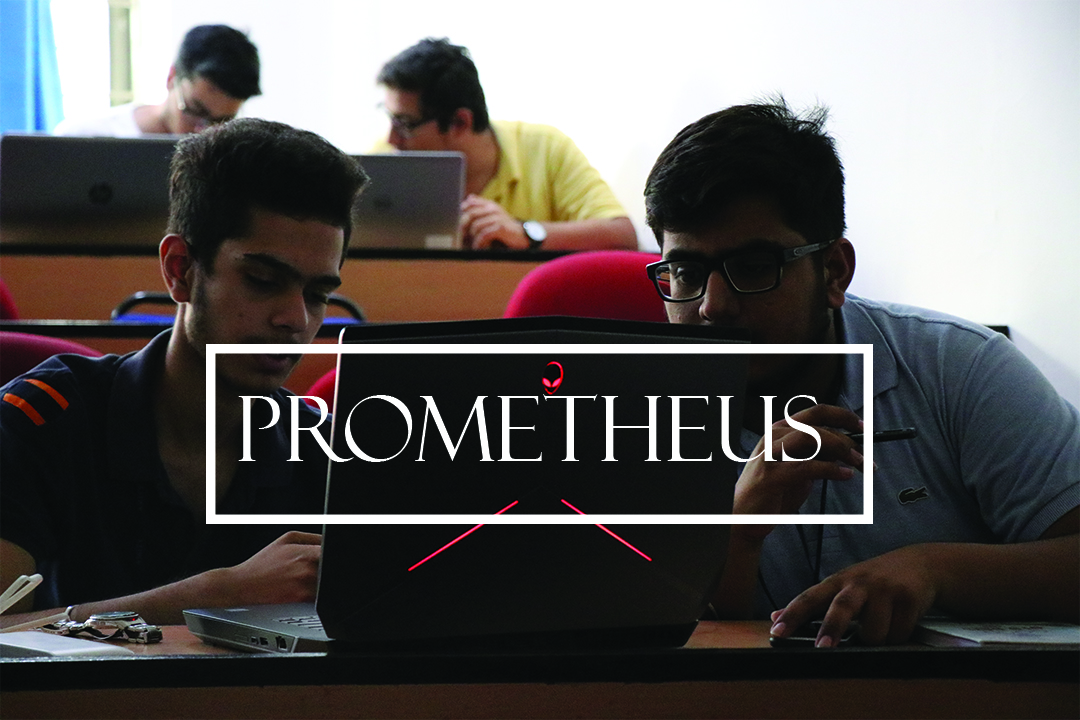
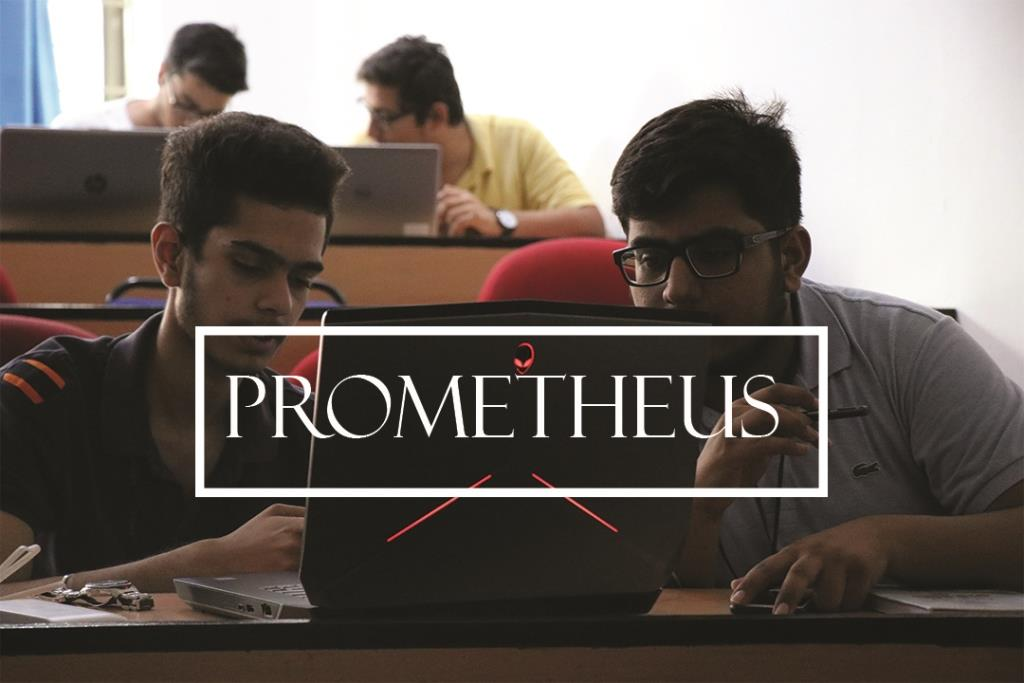
compresses images

diff --git a/index.html b/index.html
@@ -360,7 +360,7 @@
                         </div>
                         <!-- SINGLE SLIDE IN THE SLIDER -->
                         <div class="single_iteam">
-                          <a > <img src="img/gallery/008.png" alt="img"></a>
+                          <a > <img src="img/gallery/008.jpg" alt="img"></a>
                         </div>
                       </div>
                       <!-- END FEATURED SLIDER -->
@@ -377,7 +377,7 @@
                         </div>
                         <!-- SINGLE SLIDE IN THE SLIDER -->
                         <div class="single_iteam">
-                          <a > <img src="img/gallery/010.png" alt="img"></a>
+                          <a > <img src="img/gallery/010.jpg" alt="img"></a>
                         </div>
                         <!-- SINGLE SLIDE IN THE SLIDER -->
                         <div class="single_iteam">
@@ -389,7 +389,7 @@
                         </div>
                         <!-- SINGLE SLIDE IN THE SLIDER -->
                         <div class="single_iteam">
-                          <a > <img src="img/gallery/009.png" alt="img"></a>
+                          <a > <img src="img/gallery/009.jpg" alt="img"></a>
                         </div>
                       </div>
                       <!-- END FEATURED SLIDER -->
